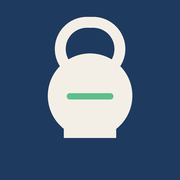
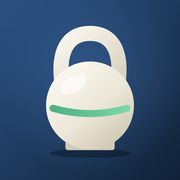
Versión 2.4.0: icono nuevo y test de tobillo
- Icono rediseñado (también maskable y apple-touch).
- Test de rodilla a la pared por lado en el Cierre, con gráfica en Progreso y columnas en el CSV.

Claude-Session: https://claude.ai/code/session_018nNMWefLTE8Ke8JonZP6DQ

diff --git a/index.html b/index.html
@@ -284,7 +284,7 @@ nav.tabs button svg{padding:2px 8px;width:40px;box-sizing:content-box}
 
 <script>
 "use strict";
-const VERSION = "2.3.0";
+const VERSION = "2.4.0";
 const KEY = "correctivo.v1";
 const $ = (s, r = document) => r.querySelector(s);
 const esc = s => String(s ?? "").replace(/[&<>"']/g, c => ({"&":"&amp;","<":"&lt;",">":"&gt;",'"':"&quot;","'":"&#39;"}[c]));
@@ -556,6 +556,10 @@ function renderHoy(){
      <div class="row" style="margin-bottom:10px;gap:16px">
        <div class="field"><label for="peso">Peso (kg)</label><input class="num" id="peso" inputmode="decimal" data-bind="cuerpo.peso" data-num="1" value="${getp(d,"cuerpo.peso") ?? ""}" placeholder="en ayunas"></div>
        <div class="field"><label for="cintura">Cintura (cm)</label><input class="num" id="cintura" inputmode="decimal" data-bind="cuerpo.cintura" data-num="1" value="${getp(d,"cuerpo.cintura") ?? ""}" placeholder="ombligo"></div></div>
+     <div class="row" style="margin-bottom:6px;gap:16px">
+       <div class="field"><label for="tobI">Tobillo izq. (cm)</label><input class="num" id="tobI" inputmode="decimal" data-bind="cuerpo.tobIzq" data-num="1" value="${getp(d,"cuerpo.tobIzq") ?? ""}" placeholder="a la pared"></div>
+       <div class="field"><label for="tobD">Tobillo der. (cm)</label><input class="num" id="tobD" inputmode="decimal" data-bind="cuerpo.tobDer" data-num="1" value="${getp(d,"cuerpo.tobDer") ?? ""}" placeholder="a la pared"></div></div>
+     <p class="hint" style="margin-top:0">Cada dos semanas, con la cintura: distancia máxima del pie a la pared tocándola con la rodilla sin levantar el talón. Más de 10 cm es buena movilidad; vigila sobre todo la diferencia entre lados.</p>
      ${check("video", "Sesión grabada en vídeo", "De perfil, cámara a la altura de la cadera, clips cortos")}
      <div class="field" style="margin-top:8px"><label for="notas">Notas</label>
      <textarea id="notas" data-bind="notas" placeholder="Sensaciones, dónde apareció el ardor, qué cambió…">${esc(d.notas||"")}</textarea></div>`);
@@ -853,6 +857,9 @@ function renderHist(){
     { name:"RPM 5 min", pts: series("air.testRPM"), c:"var(--series-2)" }], "");
   h += chartCard("c6", "Cintura", "Cada dos semanas, en ayunas, a la altura del ombligo", [
     { name:"Cintura", pts: series("cuerpo.cintura"), c:"var(--series-1)" }], " cm");
+  h += chartCard("c11", "Tobillo (rodilla a la pared)", "Cada dos semanas · más de 10 cm es buena movilidad · la meta es que se igualen", [
+    { name:"Izquierdo", pts: series("cuerpo.tobIzq"), c:"var(--series-1)" },
+    { name:"Derecho", pts: series("cuerpo.tobDer"), c:"var(--series-2)" }], " cm");
   h += chartCard("c7", "Peso", "En ayunas; importa la tendencia, no el día", [
     { name:"Peso", pts: series("cuerpo.peso"), c:"var(--series-1)" }], " kg");
   h += chartCard("c8", "Despertares por noche", "Si baja, el plan de sueño funciona", [
@@ -1483,7 +1490,7 @@ $("#fileIn").addEventListener("change", async e => {
 function toCSV(){
   const cols = ["fecha","sueno","energia","p3_completos","lateral_simetrica","fin_dia_costilla","flexor_hk","frog_resp","pullover_reps","pullover_kg","oso","oso_s","hollow_s","hollow_var","leg_raises","hanging_hollow","rot_izq","rot_der","ext_banco","rib_grab","wall_slides","bu_kg","bu_series","bu_reps","arrastre_reps","arrastre_sin_bu","cadera_bajo_campana","contralateral","isometria_3pos","plancha_pared_s","tgu_kg","tgu_izq","tgu_der",
     "hk_series","hk_reps","hk_reps_antes_ardor","hk_sonda_ok","pie_reps_antes_ardor","pie_costilla_abre","oh_bu_s","oh_lado_s","oh_otro_s","carry","carry_kg","carry_paseos","retest",
-    "b_modo","fsq_kg","fsq_series","fsq_reps","swing_kg","swing_series","swing_reps","row_kg","row_series","row_reps","scarry_kg","scarry_series","scarry_paseos","airbike_tipo","airbike_intervalos","airbike_min","airbike_vatios","airbike_rpm","airbike_kcal","test_vatios_max","test_rpm_mas","creatina","suero","despertares","luz_antes_2330","cafe_antes_14","tomas_proteina","paseo_min","peso","cintura","mov_nivel","mov_hechos","b_kg_max","b_kg_rondas","b_rondas","b_rondas_completas","b_limpia_video","video","notas"];
+    "b_modo","fsq_kg","fsq_series","fsq_reps","swing_kg","swing_series","swing_reps","row_kg","row_series","row_reps","scarry_kg","scarry_series","scarry_paseos","airbike_tipo","airbike_intervalos","airbike_min","airbike_vatios","airbike_rpm","airbike_kcal","test_vatios_max","test_rpm_mas","creatina","suero","despertares","luz_antes_2330","cafe_antes_14","tomas_proteina","paseo_min","peso","cintura","tobillo_izq","tobillo_der","mov_nivel","mov_hechos","b_kg_max","b_kg_rondas","b_rondas","b_rondas_completas","b_limpia_video","video","notas"];
   const q = v => v == null ? "" : /[",;\n]/.test(String(v)) ? `"${String(v).replace(/"/g,'""')}"` : String(v);
   const rows = Object.keys(DB.days).sort().map(x => { const d = DB.days[x], g = p => getp(d, p); return [x, d.sueno, d.energia, p3Done(d), g("p3.lateral") ? 1 : "", d.finDia, g("extra.flex.done") ? 1 : "", g("extra.frog.done") ? (g("extra.frog.resp") ?? "sí") : "",
     g("extra.pull.done") ? (g("extra.pull.reps") ?? "sí") : "", g("extra.pull.kg"), g("extra.bear.done") ? (g("extra.bear.var") ?? "sí") : "", g("extra.bear.secs"),
@@ -1494,7 +1501,7 @@ function toCSV(){
     g("a.oh.bu"), g("a.oh.lado"), g("a.oh.otro"), g("a.carry.var"), g("a.carry.kg"), g("a.carry.paseos"), g("a.retest.done") ? 1 : "",
     hasB(d) ? bMode(d, x) : "", ...FZ.flatMap(e => getp(d, "b.f."+e.k+".done") ? [g("b.f."+e.k+".kg"), g("b.f."+e.k+".series"), g("b.f."+e.k+".reps")] : ["","",""]),
     airDone(d) ? (g("air.tipo") ?? "sí") : "", g("air.rondas"), g("air.min"), g("air.vatios"), g("air.rpm"), g("air.kcal"), g("air.testW"), g("air.testRPM"), g("sup.cre") ? 1 : "", g("sup.suero") ? 1 : "",
-    d.despertares, g("hab.luz") ? 1 : "", g("hab.cafe") ? 1 : "", g("hab.prot"), g("paseo.done") ? (g("paseo.min") ?? "sí") : "", g("cuerpo.peso"), g("cuerpo.cintura"),
+    d.despertares, g("hab.luz") ? 1 : "", g("hab.cafe") ? 1 : "", g("hab.prot"), g("paseo.done") ? (g("paseo.min") ?? "sí") : "", g("cuerpo.peso"), g("cuerpo.cintura"), g("cuerpo.tobIzq"), g("cuerpo.tobDer"),
     (() => { const m = movPlan(x); return m.lv && movDone(d) ? MOV_LV[m.lv] : ""; })(), movDone(d) || "", maxBkg(d), roundKgs(d).join("/"), (g("b.rounds")||[]).length || "", roundsDone(d) || "", g("b.limpia") ? 1 : "", d.video ? 1 : "", d.notas].map(q).join(","); });
   return [cols.join(","), ...rows].join("\n");
 }

diff --git a/sw.js b/sw.js
@@ -1,5 +1,5 @@
 // Service worker: la app funciona sin conexión y se actualiza sola en segundo plano.
-const CACHE = "correctivo-v2.3.0";
+const CACHE = "correctivo-v2.4.0";
 const ASSETS = ["./", "./index.html", "./manifest.webmanifest", "./icon-192.png", "./icon-512.png", "./icon-maskable-512.png", "./apple-touch-icon.png"];
 
 self.addEventListener("install", e => {
